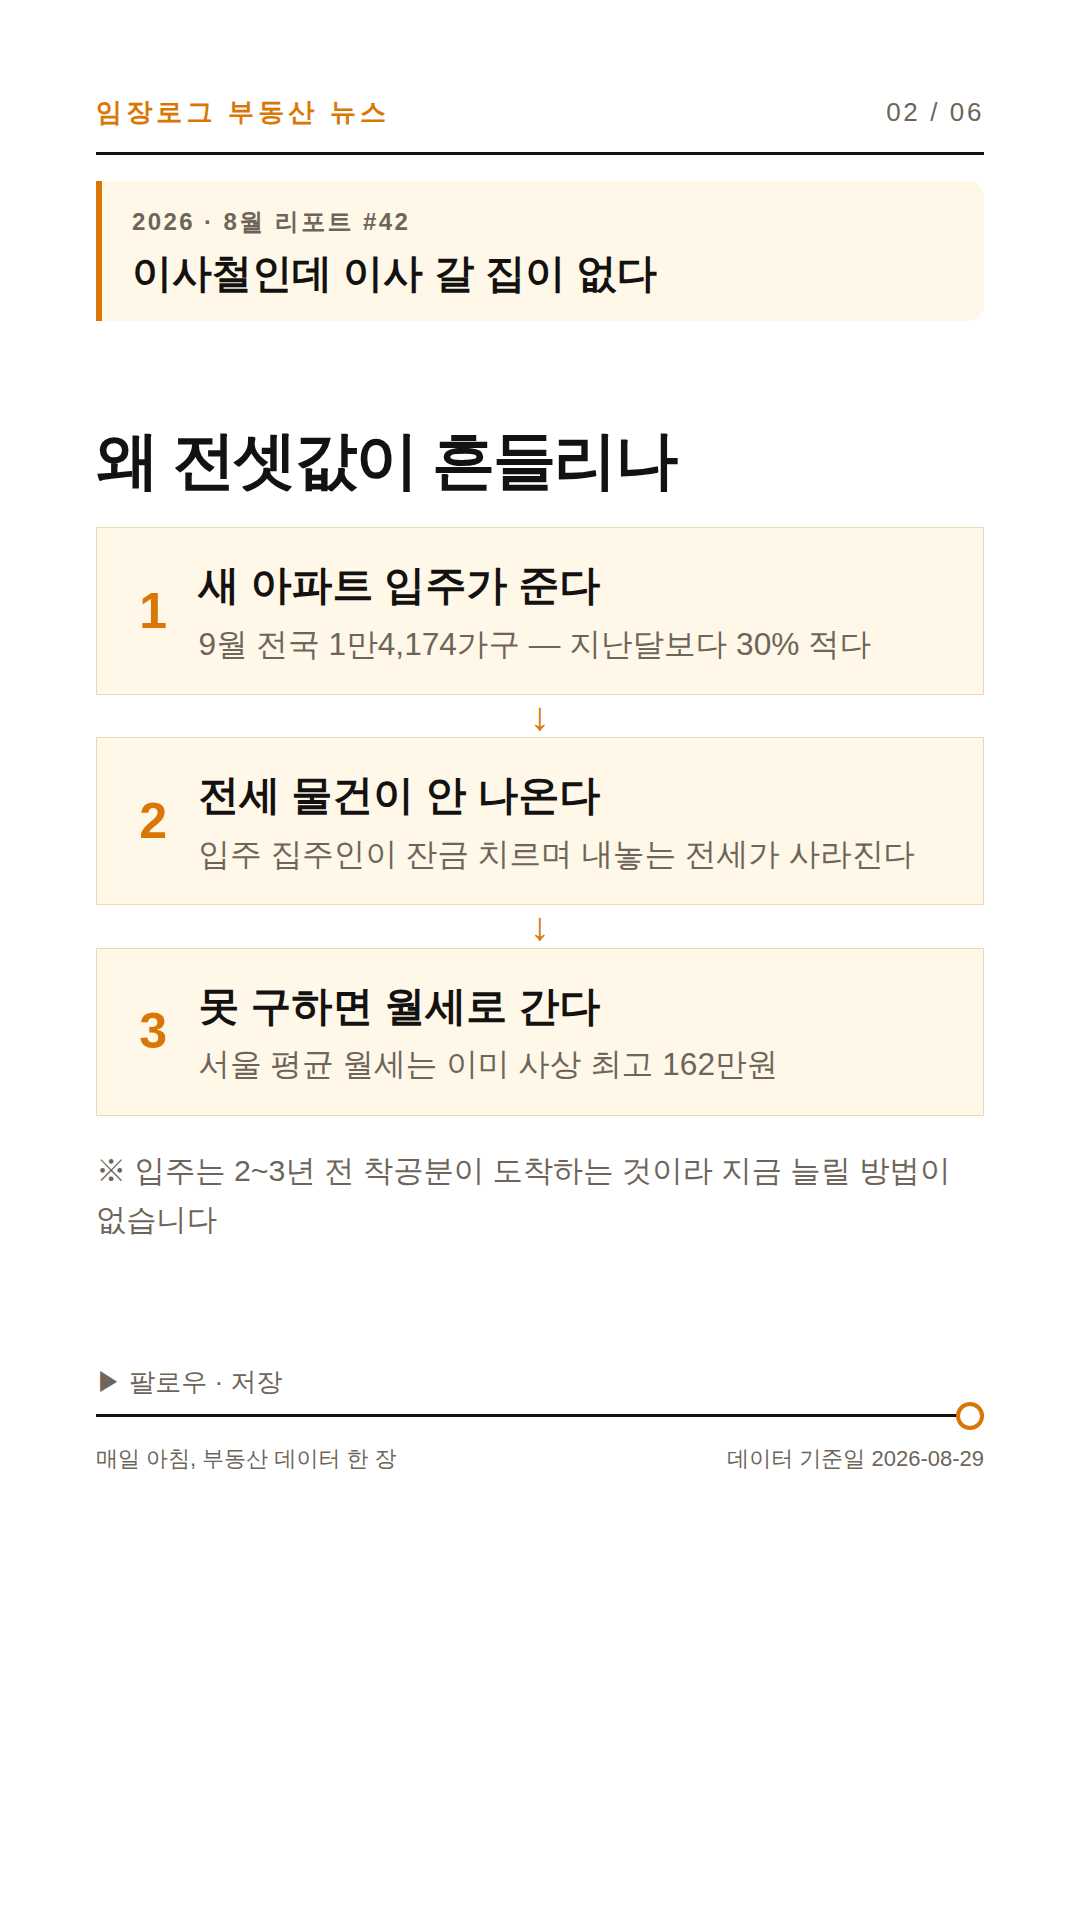
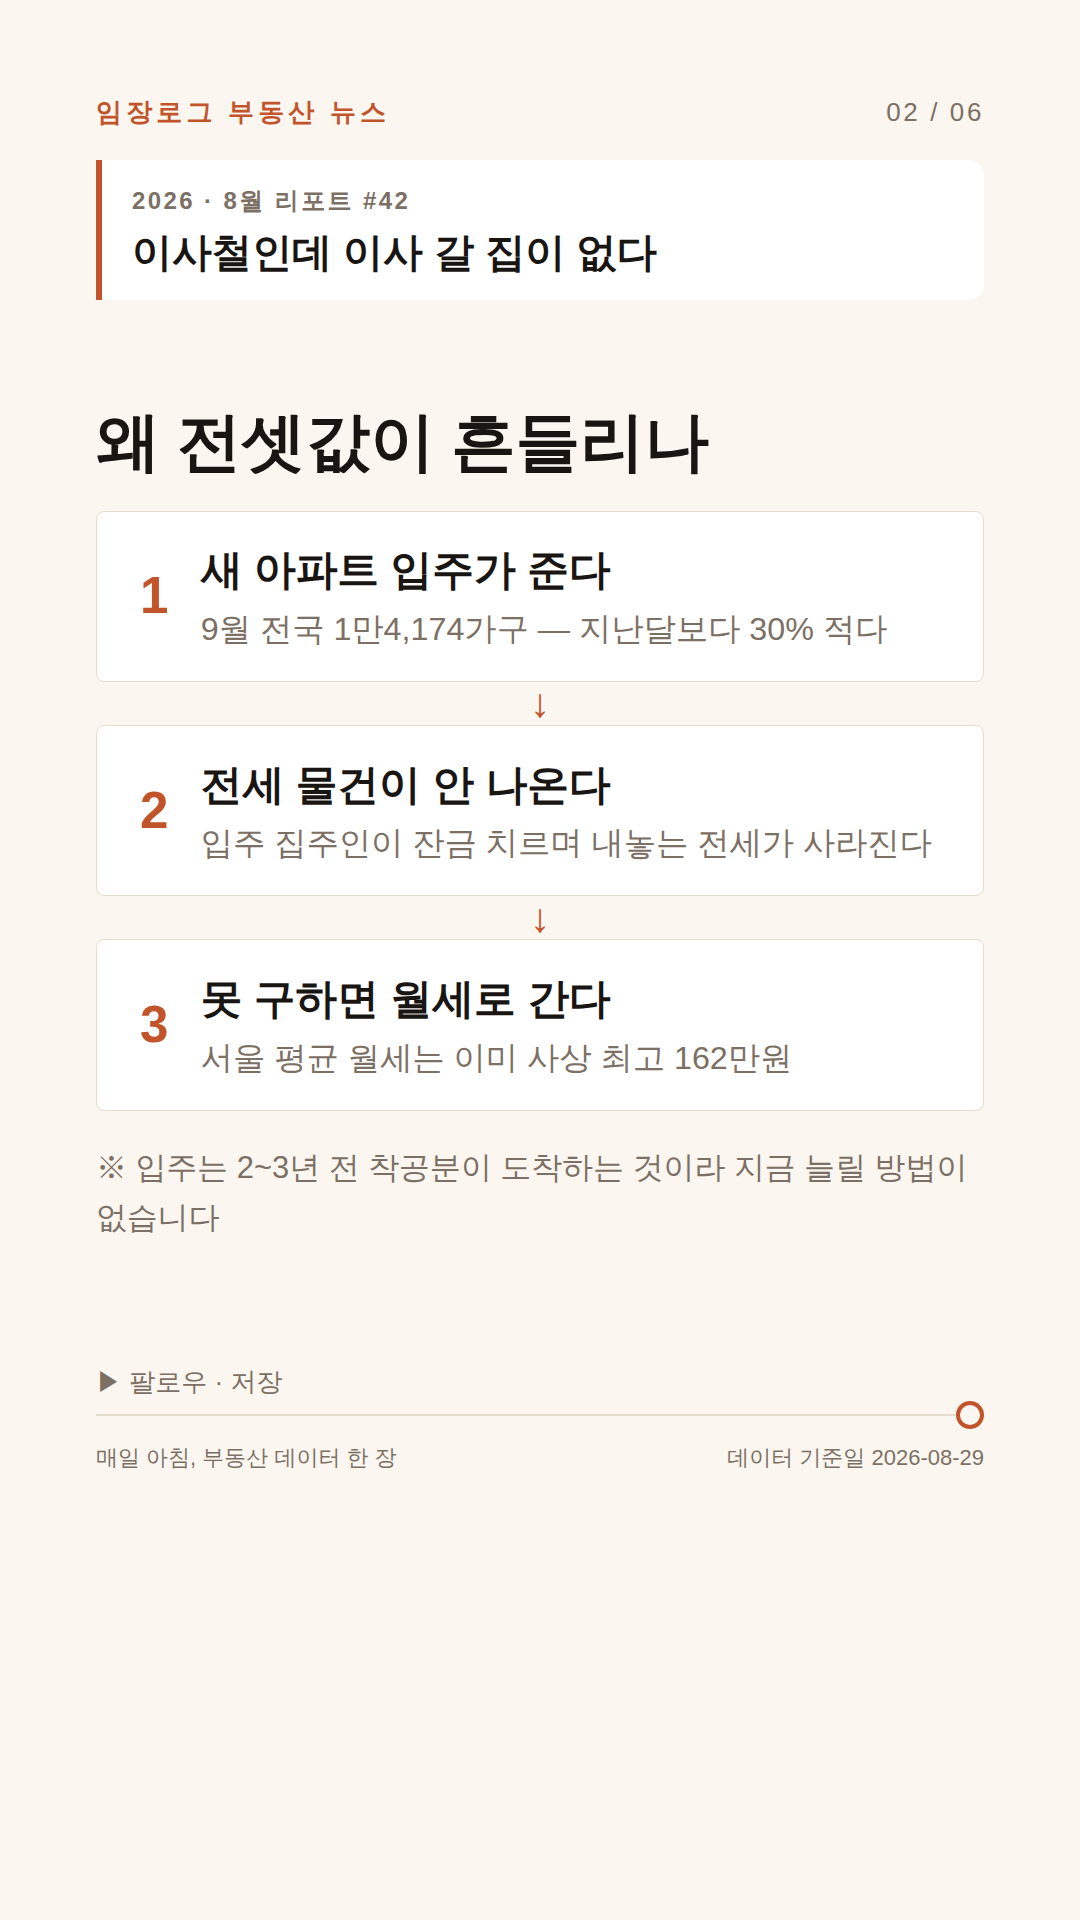
인스타 테마를 후보 A '아이보리 명조'로 확정 + SH #35 발행 취소 · 인스타 웹 로그인 결론
■ 인스타 테마 — 사용자가 밝은 후보 5안 중 A 선택(2026-08-29)
  bg #FBF7F0 · 패널 #FFFFFF · 테라코타 #C2542B · 잉크 #191512
  제목 고운바탕(명조) · 본문 IBM Plex Sans KR · 라운드 6px

  아침에 임시로 적용해 둔 D(앰버 포스터)는 insta-amber 후보로 되돌렸다.
  테라코타는 이 바탕에서 대비 5.4:1 — 앰버(3.5:1)와 달리 큰 숫자뿐 아니라
  강조 문구에도 쓸 수 있어 카드 본문 규칙이 하나 줄었다.

  차트 0선은 밝은 테마 공통 문제라 이 팔레트에도 넣었다 — 흰 패널 위에서
  --line(연한 베이지)은 사라지고, 위/아래가 곧 의미인 차트라 기준선은 보여야 한다.

  오늘 자 캐러셀·릴스 12장 재렌더. 캐러셀 zoom 1.250~1.350 · 릴스 1.260~1.361,
  전 카드 over v0 h0. 블로그 3테마 카드 18장 md5 집계 변화 없음(266327741df1…).

■ 리포트 #35 (SH 국민임대 특집) — 네이버 발행 취소
  사용자 결정. queue.json 의 status 를 pending → dropped 로 내리고 이유를 남겼다.
  로컬 프로그램은 pending 만 처리하므로 이제 집어가지 않는다.
  큐 note 에 "dropped 는 되살리지 말 것"을 명시했다 — 다음 세션이 밀린 글로 오해하고
  다시 designated 로 올리는 것을 막는다.
  깃페이지 글·index·sitemap·feed 는 건드리지 않았다(요청 범위는 발행 취소까지).

■ 인스타 웹 로그인 — 안 되는 것으로 결론
  2026-08-29 재시도도 실패(비밀번호 변경·시크릿 창·며칠 뒤 재시도 모두 같은 증상).
  예약 발행을 '잠정'이 아니라 정식 운영 방식으로 문서화했다.
  워크플로는 유지 비용이 0이므로 남겨 둔다 — 다른 경로로 토큰이 생기면 그대로 쓴다.
  **매일 아침 보고에서 이 항목을 다시 묻지 않는다**고 CLAUDE.md 에 못 박았다.

검증
  후보 비교 페이지 390/900px 오버플로 없음 · 이미지 18장 전부 로드 · JS 에러 0
  포스트 서빙 <img> 7개(어제와 동일) · insta 이미지 12장 전부 디코드
  insta.yml YAML 파싱 · queue.json / manifest.json JSON 파싱

Claude-Session: https://claude.ai/code/session_014FPhCKpii9mVmDWMzN6gma

diff --git a/themes/carousel-light.html b/themes/carousel-light.html
@@ -19,9 +19,9 @@ hr{border:0;height:1px;background:#D6D8DC;margin:32px 0}
 
 .card{background:#fff;border:1px solid #DDDFE3;border-radius:14px;
   padding:22px 20px 24px;margin:0 0 26px}
-.card.pick{border:2px solid #D97706;box-shadow:0 8px 26px rgba(217,119,6,.13)}
+.card.pick{border:2px solid #C2542B;box-shadow:0 8px 26px rgba(194,84,43,.13)}
 .badge{display:inline-block;font-size:.7rem;font-weight:900;letter-spacing:.1em;
-  background:#D97706;color:#fff;border-radius:999px;padding:4px 12px}
+  background:#C2542B;color:#fff;border-radius:999px;padding:4px 12px}
 .tag{display:inline-block;font-size:.72rem;font-weight:700;letter-spacing:.1em;
   border:1px solid #D6D8DC;border-radius:999px;padding:3px 11px;color:#71747C}
 .card h2{font-size:1.28rem;font-weight:900;margin:11px 0 3px;letter-spacing:-.025em}
@@ -66,9 +66,32 @@ a{color:#B5651D}
 <h3 class="sec">지금 적용된 안</h3>
 
 <div class="card pick">
-  <span class="badge">오늘 자 캐러셀에 적용</span>
-  <h2>D · 앰버 포스터</h2>
-  <p class="sub">흰 바탕 + 지금 쓰던 앰버. 검은 굵은 선으로 위아래를 잡고 활자를 크게 씁니다.</p>
+  <span class="badge">채택 · 2026-08-29부터 적용</span>
+  <h2>A · 아이보리 명조</h2>
+  <p class="sub">따뜻한 종이색 바탕 + 흰 패널 + 테라코타. 명조 제목으로 차분하게.</p>
+  <div class="shots">
+    <img src="light/ivory-01-cover.jpg" alt="아이보리 명조 표지">
+    <img src="light/ivory-03-low.jpg" alt="아이보리 명조 대형 숫자">
+    <img src="light/ivory-04-region.jpg" alt="아이보리 명조 차트">
+  </div>
+  <div class="sw"><i style="background:#FBF7F0"></i><i style="background:#FFFFFF"></i>
+    <i style="background:#C2542B"></i><i style="background:#D8CDBA"></i><i style="background:#191512"></i></div>
+  <div class="spec">
+    <div><b>서체</b> 제목 고운바탕(명조) · 본문 IBM Plex Sans KR</div>
+    <div><b>모서리</b> 6px · <b>패널</b> 흰색(바탕이 아이보리라 면으로 구분됨)</div>
+    <div class="pro">다섯 안 중 가장 점잖습니다. 중개 실무 이야기와 톤이 맞고,
+      테라코타는 이 바탕에서 대비 5.4:1이라 큰 숫자뿐 아니라 강조 문구에도 쓸 수 있습니다.</div>
+    <div class="con">차분한 대신 피드에서 눈에 덜 띕니다. 명조는 작은 글자에서 흐려 보이므로
+      본문은 IBM Plex Sans KR로 두었습니다.</div>
+  </div>
+</div>
+
+<h3 class="sec">바꿀 수 있는 다른 안</h3>
+
+<div class="card">
+  <span class="tag">후보 D</span>
+  <h2>앰버 포스터</h2>
+  <p class="sub">흰 바탕 + 이전 앰버. 검은 굵은 선으로 위아래를 잡고 활자를 크게 씁니다.</p>
   <div class="shots">
     <img src="light/amber-01-cover.jpg" alt="앰버 포스터 표지">
     <img src="light/amber-03-low.jpg" alt="앰버 포스터 대형 숫자">
@@ -79,33 +102,10 @@ a{color:#B5651D}
   <div class="spec">
     <div><b>서체</b> 제목 Gothic A1 900 (자간 좁게) · 본문 Noto Sans KR</div>
     <div><b>모서리</b> 직각 · <b>구분</b> 검은 3px 선</div>
-    <div class="pro">앰버를 그대로 써서 기존 게시물·릴스와 이어집니다. 흰 바탕이라도
-      검은 선과 굵은 활자 덕에 피드에서 묻히지 않습니다.</div>
-    <div class="con">앰버 글자는 흰 바탕에서 대비 3.5:1 — 큰 숫자·제목에만 쓰고
-      작은 본문에는 쓰지 않도록 맞춰 뒀습니다.</div>
+    <div class="pro">피드에서 가장 셉니다. 앰버를 그대로 써서 이전 게시물과 색이 이어집니다.</div>
+    <div class="con">앰버 글자는 흰 바탕에서 대비 3.5:1 — 큰 숫자·제목에만 쓸 수 있습니다.</div>
   </div>
-</div>
-
-<h3 class="sec">바꿀 수 있는 다른 안</h3>
-
-<div class="card">
-  <span class="tag">후보 A</span>
-  <h2>아이보리 명조</h2>
-  <p class="sub">따뜻한 종이색 바탕 + 테라코타. 명조 제목으로 차분하게.</p>
-  <div class="shots">
-    <img src="light/ivory-01-cover.jpg" alt="아이보리 명조 표지">
-    <img src="light/ivory-03-low.jpg" alt="아이보리 명조 대형 숫자">
-    <img src="light/ivory-04-region.jpg" alt="아이보리 명조 차트">
-  </div>
-  <div class="sw"><i style="background:#FBF7F0"></i><i style="background:#FFFFFF"></i>
-    <i style="background:#C2542B"></i><i style="background:#D8CDBA"></i><i style="background:#191512"></i></div>
-  <div class="spec">
-    <div><b>서체</b> 제목 고운바탕(명조) · 본문 IBM Plex Sans KR</div>
-    <div><b>모서리</b> 6px</div>
-    <div class="pro">다섯 안 중 가장 점잖습니다. 중개 실무 이야기와 톤이 잘 맞습니다.</div>
-    <div class="con">차분한 대신 피드에서 눈에 덜 띕니다. 명조는 작은 글자에서 흐려 보입니다.</div>
-  </div>
-  <div class="how">바꾸려면: <code>insta-ivory</code> 팔레트를 <code>insta</code> 로 옮기면 됩니다.</div>
+  <div class="how">바꾸려면: <code>insta-amber</code> 팔레트를 <code>insta</code> 로 옮기면 됩니다.</div>
 </div>
 
 <div class="card">

diff --git a/tools/make_cards.py b/tools/make_cards.py
@@ -62,20 +62,18 @@ def _round(rad, body_font=None, extra=""):
 
 INSTA = {
     # ── 운영 테마 ──────────────────────────────────────────────────
-    # '앰버 포스터' — 2026-08-29 어두운 판에서 밝은 판으로 전환.
-    # 브랜드 앰버는 그대로 두고 바탕만 뒤집었다(앰버는 릴스·기존 게시물과 이어진다).
-    # 앰버(#D97706)는 흰 바탕에서 대비 3.5:1 — 큰 활자에만 쓰고 본문에는 쓰지 않는다.
+    # '아이보리 명조' — 2026-08-29 어두운 판에서 밝은 판으로 전환(후보 A 채택).
+    # 따뜻한 종이색 바탕 + 흰 패널 + 테라코타. 제목은 고운바탕(명조).
+    # 테라코타(#C2542B)는 이 바탕에서 대비 5.4:1 — 큰 숫자뿐 아니라 강조 문구에도 쓸 수 있다.
     "insta": dict(
-        bg="#FFFFFF", panel="#FFF7E7", ink="#141210", mute="#6E655A",
-        accent="#D97706", accent2="#F59E0B", line="#EBD8B4", rail="#F6EBD8",
-        fillgray="#E4D2B2", onfill="#FFFFFF", body="#413A31",
-        head="'Gothic A1',sans-serif", headspace="-0.035em", headink="ink",
-        css=_round("0", "'Noto Sans KR',sans-serif",
-                   ".top{padding-bottom:18px;border-bottom:3px solid var(--ink)}"
-                   ".trace{height:3px;background:var(--ink)}"
-                   # 0선은 --line(연한 베이지)으로는 밝은 패널에서 사라진다.
+        bg="#FBF7F0", panel="#FFFFFF", ink="#191512", mute="#7C7065",
+        accent="#C2542B", accent2="#C2542B", line="#E5DCCE", rail="#F1EADD",
+        fillgray="#D8CDBA", onfill="#FFFFFF", body="#4A4038",
+        head="'Gowun Batang',serif", headspace="0", headink="ink",
+        css=_round("6px", "'IBM Plex Sans KR',sans-serif",
+                   # 0선은 --line(연한 베이지)으로는 흰 패널에서 사라진다.
                    # 위/아래가 곧 의미인 차트라 기준선은 눈에 보여야 한다.
-                   ".zcols::before{background:rgba(20,18,16,.42)}"),
+                   ".zcols::before{background:rgba(25,21,18,.40)}"),
     ),
 
     # ── 후보 테마 (검토용 · 결정되면 지운다) ────────────────────────
@@ -87,13 +85,17 @@ INSTA = {
         head="'IBM Plex Sans KR',sans-serif", headspace="-0.01em", headink="ink",
         css=_MONO_CSS,
     ),
-    # A. 아이보리 명조 — 따뜻한 종이 바탕 + 테라코타. 차분하고 신뢰감.
-    "insta-ivory": dict(
-        bg="#FBF7F0", panel="#FFFFFF", ink="#191512", mute="#7C7065",
-        accent="#C2542B", accent2="#C2542B", line="#E5DCCE", rail="#F1EADD",
-        fillgray="#D8CDBA", onfill="#FFFFFF", body="#4A4038",
-        head="'Gowun Batang',serif", headspace="0", headink="ink",
-        css=_round("6px", "'IBM Plex Sans KR',sans-serif"),
+    # A. 아이보리 명조 → 채택되어 'insta' 로 옮겼다(위).
+    # D. 앰버 포스터 — 브랜드 앰버를 밝은 판으로. 직각·굵은 활자, 피드에서 가장 세다.
+    "insta-amber": dict(
+        bg="#FFFFFF", panel="#FFF7E7", ink="#141210", mute="#6E655A",
+        accent="#D97706", accent2="#F59E0B", line="#EBD8B4", rail="#F6EBD8",
+        fillgray="#E4D2B2", onfill="#FFFFFF", body="#413A31",
+        head="'Gothic A1',sans-serif", headspace="-0.035em", headink="ink",
+        css=_round("0", "'Noto Sans KR',sans-serif",
+                   ".top{padding-bottom:18px;border-bottom:3px solid var(--ink)}"
+                   ".trace{height:3px;background:var(--ink)}"
+                   ".zcols::before{background:rgba(20,18,16,.42)}"),
     ),
     # B. 민트 리포트 — 흰 바탕 + 민트 블록. 테두리 없이 면으로만 구분.
     "insta-mint": dict(
@@ -112,7 +114,6 @@ INSTA = {
         head="'IBM Plex Sans KR',sans-serif", headspace="-0.01em", headink="ink",
         css=_MONO_CSS,
     ),
-    # D. 앰버 포스터 → 채택되어 'insta' 로 옮겼다(위).
     # E. 코랄 소프트 — 복숭아 바탕 + 흰 카드에 옅은 그림자. 가장 부드럽다.
     "insta-coral": dict(
         bg="#FFF5F2", panel="#FFFFFF", ink="#2A1A16", mute="#8A736C",

diff --git a/CLAUDE.md b/CLAUDE.md
@@ -60,17 +60,19 @@ URL: https://mkrealestate4s.github.io/mynews/
 ## 채널 두 개 — 브랜드가 다르다 (중요)
 - **블로그 = `부동산 인사이트`** (깃페이지 + 네이버). 테마는 기존 3종(report/white/editorial) **유지**.
   테마 확장은 하지 않기로 결정(2026-08-26). `themes/directions.html`은 보류된 검토 자료.
-- **인스타 = `임장로그`**. 전용 테마 `insta` 한 종 고정 — '앰버 포스터'안
-  (bg #FFFFFF · 패널 #FFF7E7 · 앰버 #D97706/#F59E0B · 잉크 #141210 · Gothic A1 900 자간 −0.035em ·
-  본문 Noto Sans KR · 라운드 0 · `.top`/`.trace`를 검은 3px 선으로).
-  **2026-08-29 검정(터미널 데이터) → 밝은 판으로 전환**(사용자 요청). 앰버는 그대로 유지해
-  기존 게시물·릴스와 이어진다. 앰버 글자는 흰 바탕에서 대비 3.5:1이라 **큰 숫자·제목에만** 쓴다.
+- **인스타 = `임장로그`**. 전용 테마 `insta` 한 종 고정 — '아이보리 명조'안
+  (bg #FBF7F0 · 패널 #FFFFFF · 테라코타 #C2542B · 잉크 #191512 · 제목 고운바탕(명조) ·
+  본문 IBM Plex Sans KR · 라운드 6px).
+  **2026-08-29 검정(터미널 데이터) → 밝은 판으로 전환**(사용자가 후보 5안 중 A 선택).
+  테라코타는 이 바탕에서 대비 5.4:1이라 큰 숫자·강조 문구에 함께 쓸 수 있다.
   - 후보 비교: `themes/carousel-light.html`(밝은 5안 + 이전 검정, 리포트 #42 실물) ·
     `themes/carousel-samples.html`(2026-08-26 어두운 5안, 보관).
-  - `make_cards.INSTA`에 후보 팔레트(`insta-dark`·`insta-ivory`·`insta-mint`·`insta-blueprint`·
+  - `make_cards.INSTA`에 후보 팔레트(`insta-dark`·`insta-amber`·`insta-mint`·`insta-blueprint`·
     `insta-coral`)가 남아 있다. **다른 안으로 바꾸려면 그 팔레트를 `insta` 로 옮기면 된다**
     (되돌리기는 `insta-dark`). `render(themes=None)`은 언제나 블로그 3테마 + `insta` 만
     렌더하므로 후보가 매일 돌지는 않는다. 결정이 굳으면 후보들을 지운다.
+  - **밝은 테마는 차트 0선을 따로 챙긴다** — `--line`(연한 베이지)은 흰 패널에서 사라진다.
+    위/아래가 곧 의미인 `.zcols`는 팔레트 css에서 `::before` 색을 올려 둔다.
   - **테마는 캐러셀·릴스가 함께 쓴다** — 하나를 바꾸면 9:16·4:5가 같이 바뀐다.
 - 채널명을 섞지 말 것. 카드 본문에 토큰을 쓰면 테마별로 자동 치환된다:
   `{{EYEBROW}}` → 블로그 `2026 · N월 부동산 키워드 리포트`(render에 `eyebrow=`로 전달) /
@@ -128,10 +130,17 @@ URL: https://mkrealestate4s.github.io/mynews/
    **매일 돌리지 말 것** — 지금은 예약 발행으로 운영하므로 쓰이지 않고 저장소만 커진다
    (하루 약 1MB). 자동 발행을 되살리는 날부터 절차에 넣는다.
 
-## 인스타 캐러셀 예약 발행 (현재 운영 방식)
+## 인스타 캐러셀 예약 발행 (현재 운영 방식 — 확정)
 API 자동 발행은 잠들어 있다 — 인스타 웹 로그인이 계정 보안 차단에 걸려 토큰을
-받지 못했다(2026-08-26. 비밀번호 변경·시크릿 창 모두 같은 증상). 그래서 캐러셀은
-**폰 인스타 앱의 예약 발행**으로 올린다. 하루 2~3분, 관리 부담 없음.
+받지 못했다(2026-08-26. 비밀번호 변경·시크릿 창 모두 같은 증상).
+**2026-08-29 재시도도 실패 — 웹 로그인은 안 되는 것으로 결론.** 예약 발행을
+잠정이 아니라 **정식 운영 방식**으로 둔다. 하루 2~3분, 관리 부담 없음.
+- 이 결론을 뒤집을 계기는 사용자가 토큰을 손에 넣었다고 알려 줄 때뿐이다.
+  **먼저 물어보지 말 것** — 매일 아침 보고에 넣을 항목이 아니다.
+- 폰 앱에서는 로그인이 되지만 그건 앱 세션이라 API 토큰과 무관하다.
+  (앱에서 '계정 추가'를 누르면 인스타 앱이 딥링크로 가로채 아무 일도 일어나지 않는다.)
+
+그래서 캐러셀은 **폰 인스타 앱의 예약 발행**으로 올린다.
 
 - **고정 주소 `insta.html`** — 폰 홈화면에 등록해 두는 입구.
   `publish/manifest.json`의 slug를 읽어 그날 포스트의 `#insta`로 넘긴다(글마다 URL이
